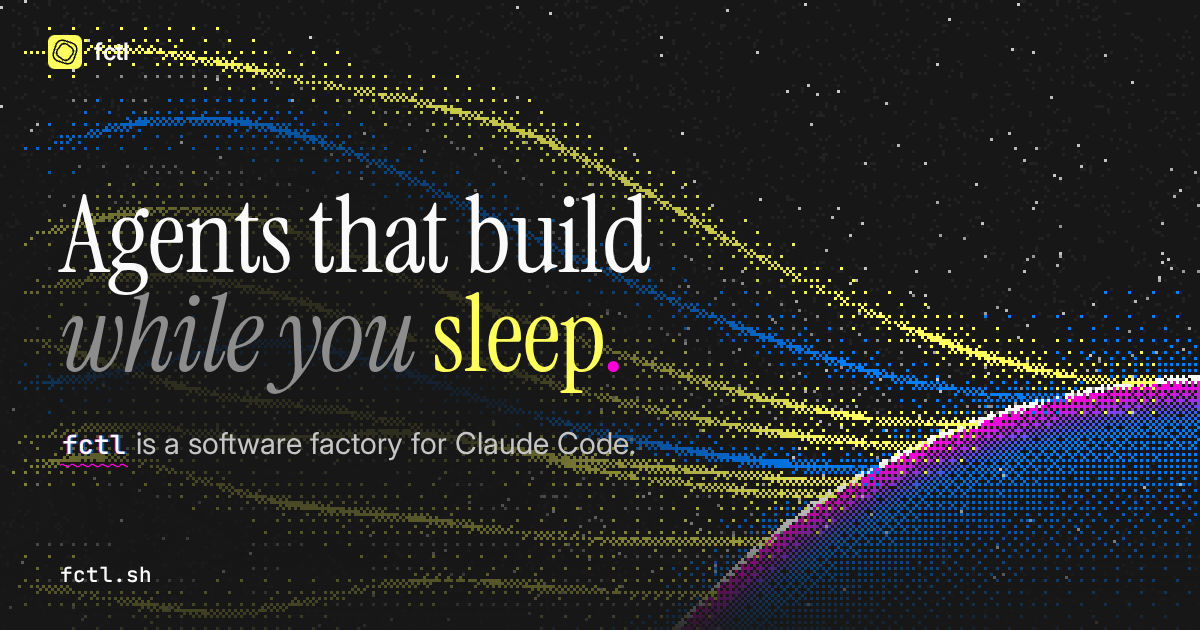
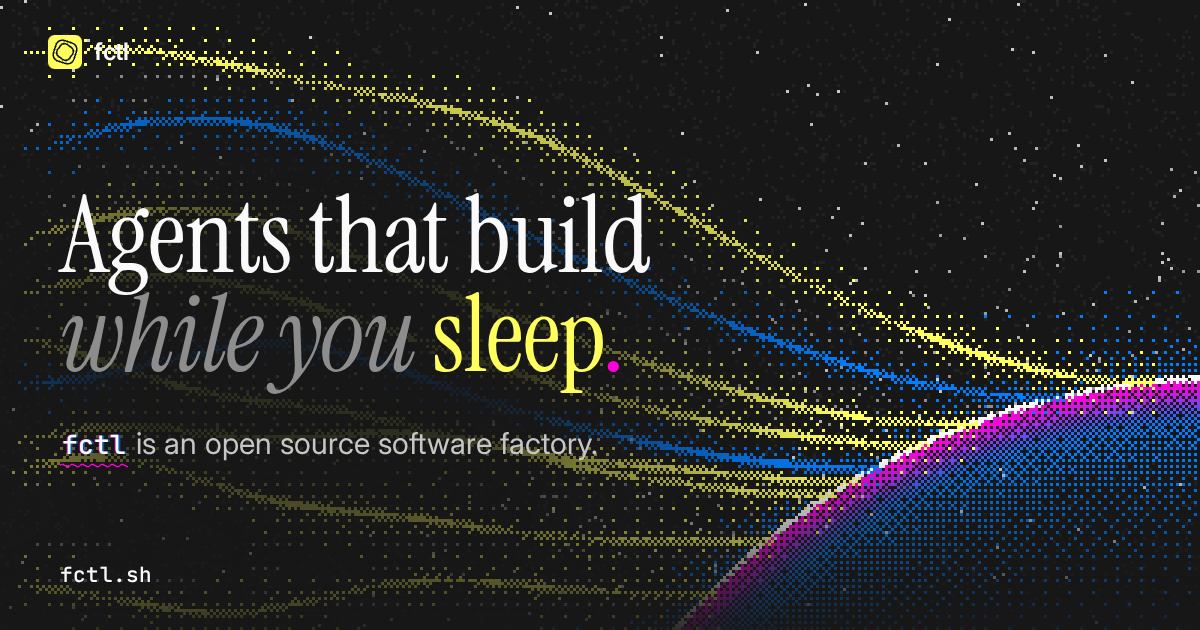
feat(landing): say fctl is an open source software factory (#82)
## Summary

fctl.sh now leads with fctl being open source. The hero's lede uses the
wording you asked for ("fctl is an open source software factory. Agents
work in sandboxes on your own Mac, …"). The same phrase is now in the
page title, the descriptions, the structured data and the link preview
that X, Slack and LinkedIn show, so search results and shared links say
it too. Other changes:

- The footer's Source link reads "GitHub / Open Source", and the
footer's description says open source.
- Every docs and legal page's footer says "fctl is an open source
software factory" and links to GitHub.
- The "Yours to run" card is now "Open source, yours to run". It says
all of fctl is on GitHub under the MIT license, and that you can use the
managed control plane at app.fctl.sh or deploy your own.
- "Start a factory tonight." gets a third link: "Read the source on
GitHub".

The longer footer link didn't fit everywhere. On phones narrower than
about 390 px it ran past the edge, and at 681–694 px and 841–861 px the
Project column wrapped onto a row of its own. On phones, Project now
sits under Docs when it can't fit beside it. The footer's two narrower
breakpoints moved up 40 px (680 → 720, 840 → 880), which keeps the 20 px
of room they had before.

I ran `npm run check` (the same two warnings as `main`), `npm test` and
a build with docs from the fctl branch below. I also measured every
footer link at every 10 px from 320 to 1920 px, with Mac and Linux font
[…]

Changed region(s): [[0.1542, 0.6937, 0.5242, 0.7238]]

diff --git a/index.html b/index.html
@@ -5,13 +5,13 @@
     <meta name="viewport" content="width=device-width, initial-scale=1, viewport-fit=cover" />
     <meta name="color-scheme" content="dark light" />
     <meta name="theme-color" content="#171717" />
-    <title>fctl — Claude Code agents that build while you sleep</title>
+    <title>fctl — an open source software factory for Claude Code</title>
     <meta
       name="description"
-      content="fctl runs Claude Code agents in sandboxes on your own machines, around the clock, on your Claude subscription. Start them from the web, the CLI or your phone."
+      content="Claude Code agents in sandboxes on your own machines, around the clock, on your Claude subscription. Open source: use app.fctl.sh or host all of it yourself."
     />
     <link rel="canonical" href="https://fctl.sh/" />
-    <meta property="og:title" content="fctl — a software factory for Claude Code" />
+    <meta property="og:title" content="fctl — an open source software factory for Claude Code" />
     <meta property="og:description" content="Claude Code agents in sandboxes on machines you own, around the clock, on your Claude subscription." />
     <meta property="og:url" content="https://fctl.sh/" />
     <meta property="og:type" content="website" />
@@ -19,7 +19,7 @@
     <meta property="og:image" content="https://fctl.sh/og/home.png" />
     <meta property="og:image:width" content="1200" />
     <meta property="og:image:height" content="630" />
-    <meta property="og:image:alt" content="Agents that build while you sleep. fctl is a software factory for Claude Code." />
+    <meta property="og:image:alt" content="Agents that build while you sleep. fctl is an open source software factory." />
     <meta name="twitter:card" content="summary_large_image" />
     <meta name="robots" content="max-image-preview:large" />
     <script type="application/ld+json">
@@ -46,7 +46,7 @@
             "@id": "https://fctl.sh/#fctl",
             "name": "fctl",
             "url": "https://fctl.sh/",
-            "description": "A software factory for Claude Code: agents in sandboxes on machines you own, around the clock, on your Claude subscription.",
+            "description": "An open source software factory for Claude Code: agents in sandboxes on machines you own, around the clock, on your Claude subscription.",
             "applicationCategory": "DeveloperApplication",
             "operatingSystem": "macOS, Linux",
             "offers": { "@type": "Offer", "price": "0", "priceCurrency": "USD" },
@@ -57,6 +57,17 @@
             "image": "https://fctl.sh/og/home.png",
             "author": { "@id": "https://fctl.sh/#hyperstructure" },
             "sameAs": ["https://github.com/hyperstructure/fctl"]
+          },
+          {
+            "@type": "SoftwareSourceCode",
+            "@id": "https://fctl.sh/#source",
+            "name": "fctl",
+            "description": "fctl's source code: the control plane, the host, the CLI and the web app.",
+            "codeRepository": "https://github.com/hyperstructure/fctl",
+            "programmingLanguage": ["Rust", "TypeScript"],
+            "license": "https://github.com/hyperstructure/fctl/blob/main/LICENSE",
+            "author": { "@id": "https://fctl.sh/#hyperstructure" },
+            "targetProduct": { "@id": "https://fctl.sh/#fctl" }
           }
         ]
       }
@@ -80,9 +91,9 @@
             <span class="hot">sleep<span class="dot">.</span></span>
           </h1>
           <p class="lede rise" style="--d: 90ms">
-            <code class="brandword">fctl</code> is a software factory for Claude Code. Agents work in sandboxes on
-            your own Mac, around the clock, on your Claude subscription. Start them from the web, your terminal or
-            your phone, and follow every session live.
+            <code class="brandword">fctl</code> is an open source software factory. Agents work in sandboxes on your
+            own Mac, around the clock, on your Claude subscription. Start them from the web, your terminal or your
+            phone, and follow every session live.
           </p>
           <div class="install-block rise" style="--d: 180ms">
             <div class="install-tabs">
@@ -381,10 +392,11 @@
           </article>
           <article class="reveal">
             <svg viewBox="0 0 24 24" aria-hidden="true"><path d="M12 3.5 20 8v8l-8 4.5L4 16V8z" /><path d="M12 12.5 20 8M12 12.5V20.5M12 12.5 4 8" /></svg>
-            <h3><a href="/docs/self-hosting/">Yours to run</a></h3>
+            <h3><a href="/docs/self-hosting/">Open source, yours to run</a></h3>
             <p>
-              The control plane runs on Cloudflare, or in one container anywhere; agents run on your
-              hardware. Deploy your own instance with one command. MIT licensed.
+              All of fctl is on GitHub, MIT licensed. Use the managed control plane at app.fctl.sh, or deploy
+              your own with one command, on Cloudflare or in one container anywhere. Agents run on your
+              hardware either way.
             </p>
           </article>
           <article class="reveal">
@@ -479,6 +491,7 @@
         <p class="hero-links">
           <a href="/docs/getting-started/">Get started <span aria-hidden="true">→</span></a>
           <a href="/docs/self-hosting/">Run your own instance <span aria-hidden="true">→</span></a>
+          <a href="https://github.com/hyperstructure/fctl">Read the source on GitHub <span aria-hidden="true">→</span></a>
         </p>
       </section>
     </main>

diff --git a/legal.html b/legal.html
@@ -16,7 +16,7 @@
     <meta property="og:image" content="https://fctl.sh/og/home.png" />
     <meta property="og:image:width" content="1200" />
     <meta property="og:image:height" content="630" />
-    <meta property="og:image:alt" content="Agents that build while you sleep. fctl is a software factory for Claude Code." />
+    <meta property="og:image:alt" content="Agents that build while you sleep. fctl is an open source software factory." />
     <meta name="twitter:card" content="summary_large_image" />
     <link rel="icon" href="/favicon.svg" type="image/svg+xml" />
     <link rel="apple-touch-icon" href="/apple-touch-icon.png" />
@@ -30,8 +30,8 @@
       <article id="doc" class="doc"><!--DOC--></article>
     </div>
     <footer class="footer">
-      <span>fctl is made by <a href="https://github.com/hyperstructure">hyperstructure</a>. MIT licensed.</span>
-      <span><a href="/privacy">Privacy</a> · <a href="/terms">Terms</a></span>
+      <span>fctl is an open source software factory, made by <a href="https://github.com/hyperstructure">hyperstructure</a>. MIT licensed.</span>
+      <span><a href="https://github.com/hyperstructure/fctl">GitHub</a> · <a href="/privacy">Privacy</a> · <a href="/terms">Terms</a></span>
     </footer>
     <script type="module" src="/src/docs.ts"></script>
   </body>

diff --git a/src/partials/footer.html b/src/partials/footer.html
@@ -5,7 +5,7 @@
         <img src="/favicon.svg" width="24" height="24" alt="" />
         <span>fctl</span>
       </a>
-      <p>A software factory for Claude Code: agents in sandboxes on machines you own, around the clock, on your Claude subscription.</p>
+      <p>An open source software factory for Claude Code: agents in sandboxes on machines you own, around the clock, on your Claude subscription.</p>
       <p class="foot-made">Made by <a href="https://github.com/hyperstructure">hyperstructure</a> · MIT licensed</p>
     </div>
     <nav class="foot-nav" aria-label="Everything on fctl.sh">
@@ -42,7 +42,7 @@
         <h2>Project</h2>
         <ul>
           <li><a href="https://app.fctl.sh">Open the app</a></li>
-          <li><a href="https://github.com/hyperstructure/fctl">Source</a></li>
+          <li><a href="https://github.com/hyperstructure/fctl">GitHub / Open Source</a></li>
           <li><a href="/docs/security/">Security</a></li>
           <li><a href="/privacy">Privacy</a></li>
           <li><a href="/terms">Terms</a></li>

diff --git a/src/site.css b/src/site.css
@@ -772,24 +772,27 @@ pre .prompt {
     grid-template-columns: minmax(0, 1fr);
   }
 }
-@media (max-width: 840px) {
+@media (max-width: 880px) {
   .foot-features ul {
     columns: 2;
   }
 }
 /* Phones: the features above, Docs and Project below, in the features' two
-   columns. */
-@media (max-width: 680px) {
+   columns, and Project under Docs where its links wouldn't fit beside them
+   (GitHub / Open Source, under some 390px). */
+@media (max-width: 720px) {
   .foot-nav {
-    display: grid;
-    grid-template-columns: repeat(2, minmax(0, 1fr));
     column-gap: 32px;
   }
   .foot-features {
-    grid-column: 1 / -1;
+    flex-basis: 100%;
   }
   .foot-features ul {
     column-gap: 32px;
+  }
+  .foot-col:not(.foot-features) {
+    flex: 0 0 calc(50% - 16px);
+    min-width: max-content;
   }
 }
 

diff --git a/docs.html b/docs.html
@@ -33,8 +33,8 @@
       <article id="doc" class="doc"><!--DOC--></article>
     </div>
     <footer class="footer">
-      <span>fctl is made by <a href="https://github.com/hyperstructure">hyperstructure</a>. MIT licensed.</span>
-      <span><a href="/privacy">Privacy</a> · <a href="/terms">Terms</a> · <a href="<!--SOURCE-->">Edit this page</a></span>
+      <span>fctl is an open source software factory, made by <a href="https://github.com/hyperstructure">hyperstructure</a>. MIT licensed.</span>
+      <span><a href="https://github.com/hyperstructure/fctl">GitHub</a> · <a href="/privacy">Privacy</a> · <a href="/terms">Terms</a> · <a href="<!--SOURCE-->">Edit this page</a></span>
     </footer>
     <script type="module" src="/src/docs.ts"></script>
   </body>
